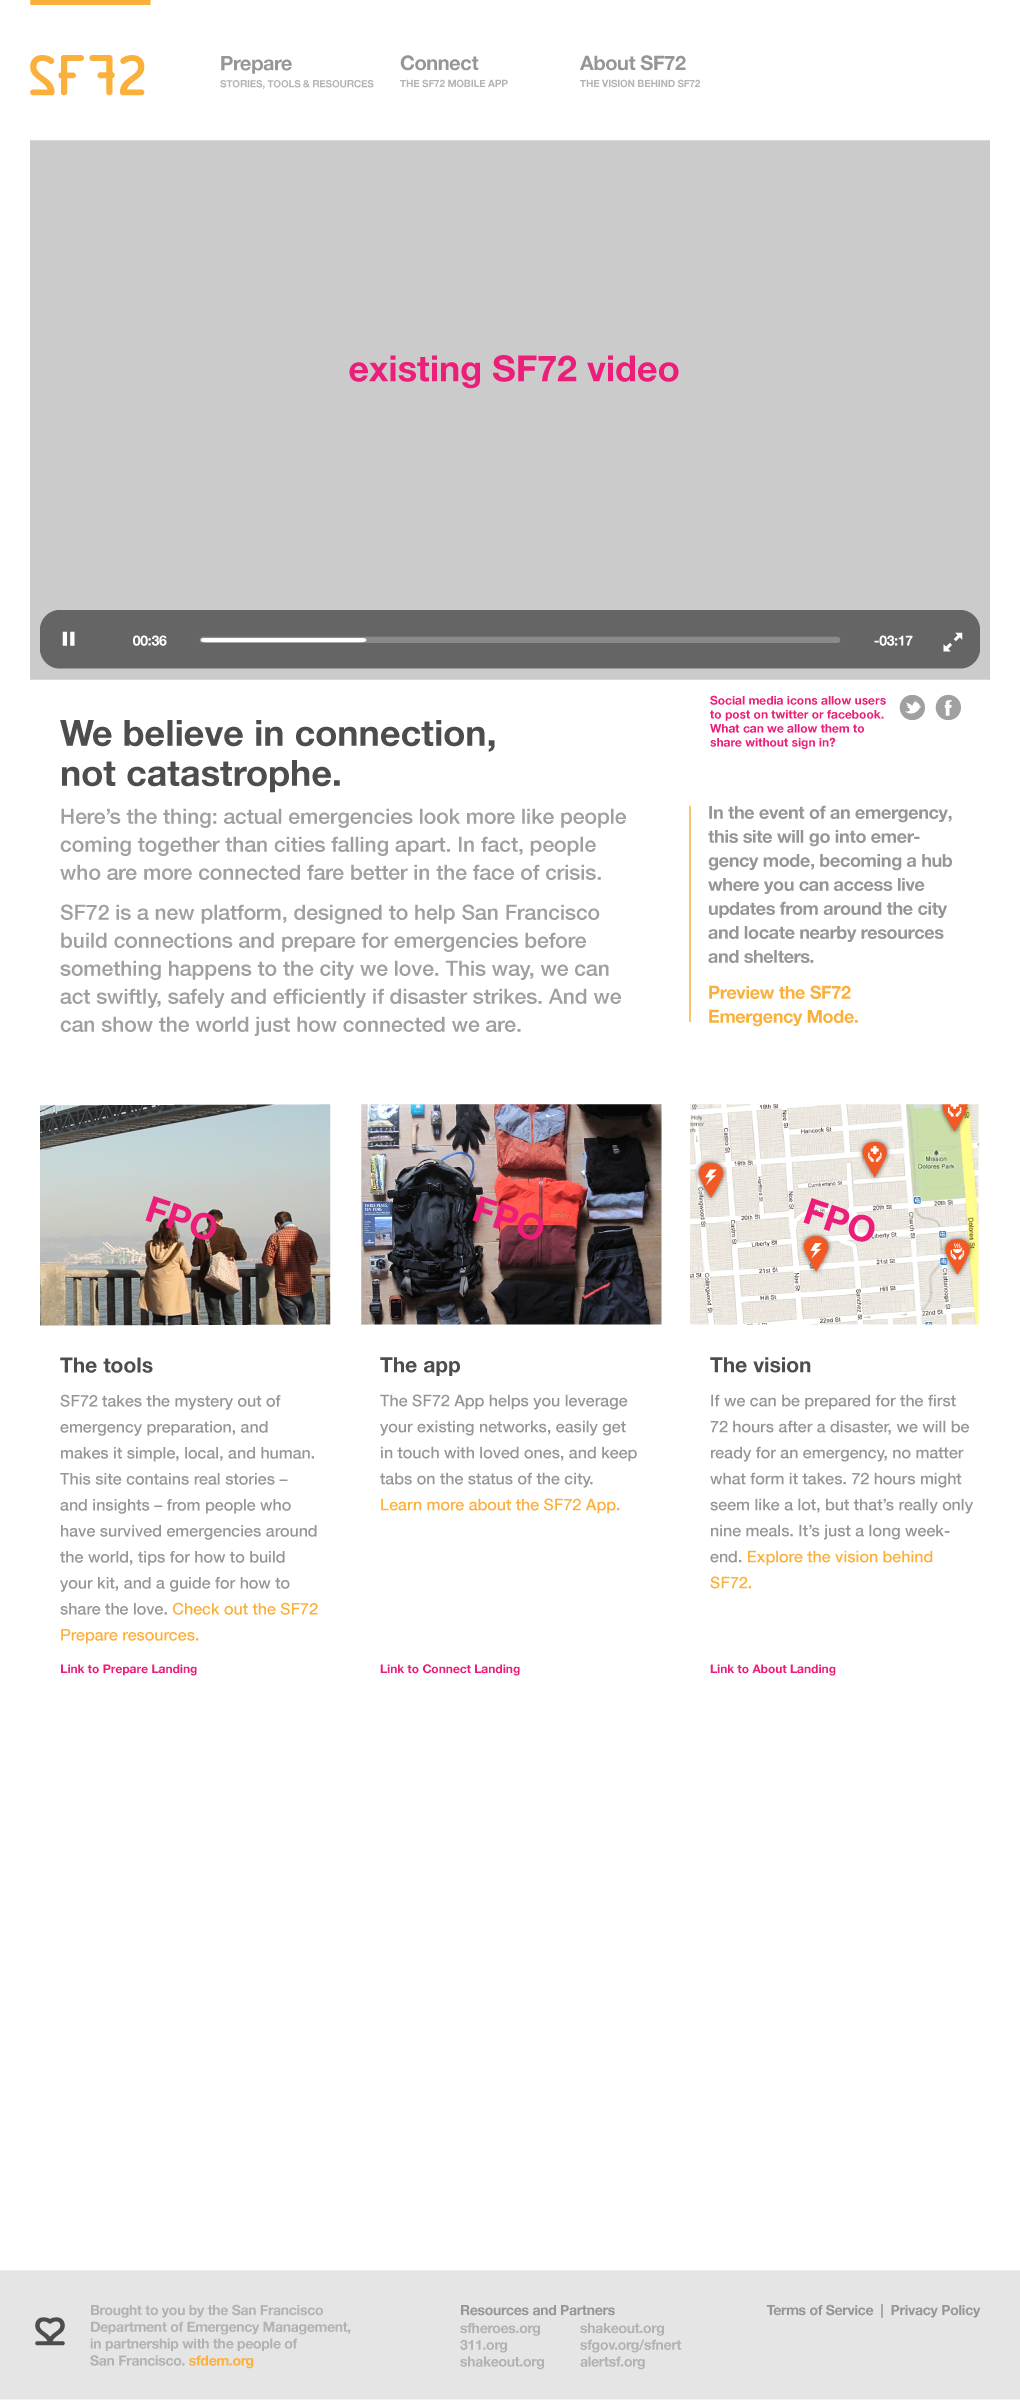
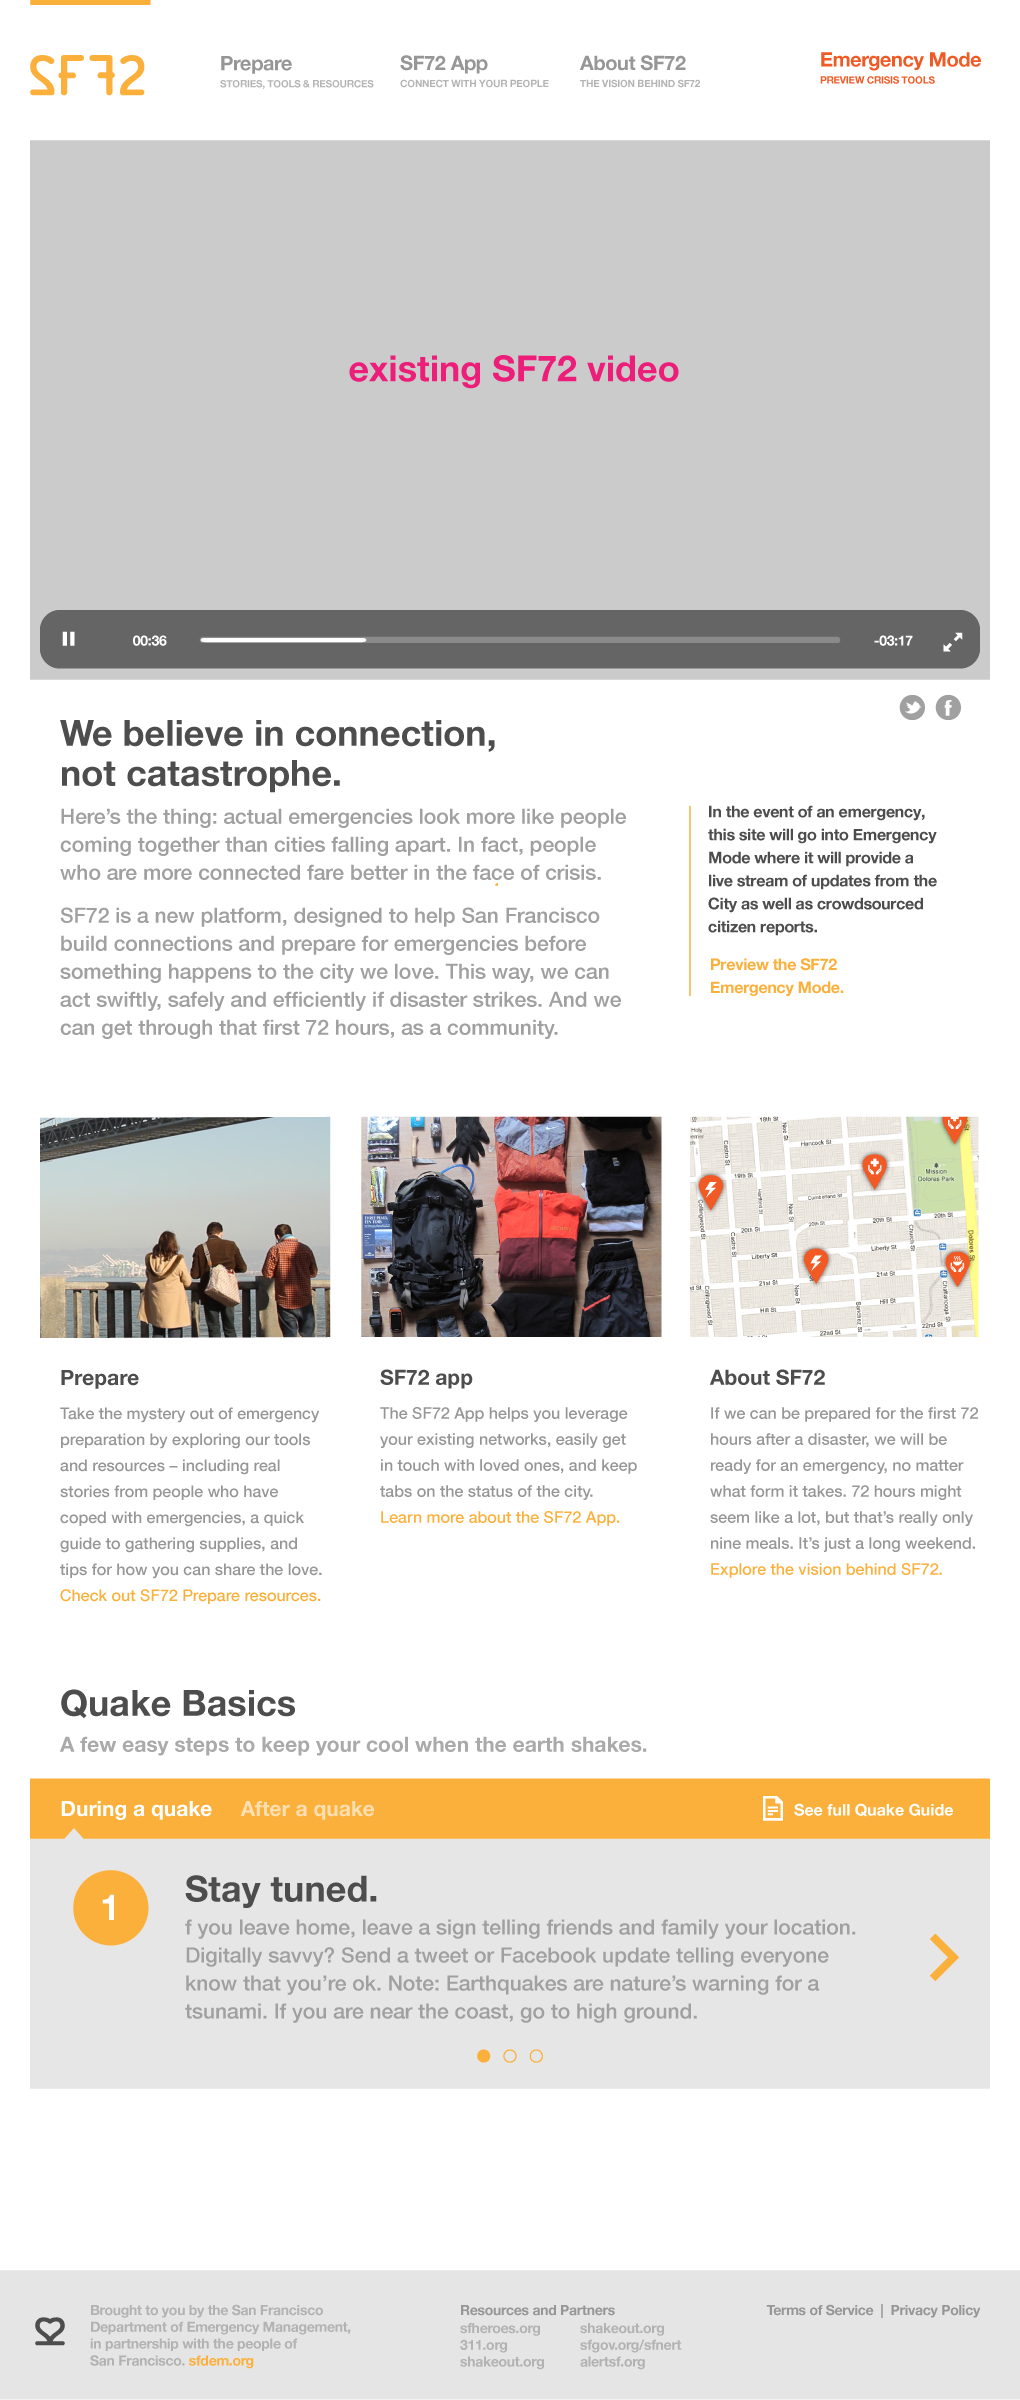
Details for home + Quick Guide page

diff --git a/app/assets/stylesheets/application.scss b/app/assets/stylesheets/application.scss
@@ -235,6 +235,7 @@ body {
 /* .story-detail { background: url(/assets/06-story-detail.png) -30px 0; } */
 /* .things { background: url(/assets/07-things.png) -30px 0; } */
 /* .about { background: url(/assets/08-about.png) -30px 0; } */
+/* .quick-guide-page { background: url(/assets/09-quick-guide-page.png) -30px 0; } */
 
 /* HOME */
 .video-opening {
@@ -465,9 +466,33 @@ body {
 
 	li {
 		float: left;
-		padding: 0.8rem 0.6rem 0.8rem 1.9rem;
-		color: #FFF;
-		font-size: 1.3rem;
+
+		a {
+			display: block;
+			padding: 0.8rem 0.6rem 0.8rem 1.9rem;
+			color: #FFF;
+			font-size: 1.3rem;
+			opacity: 0.6;
+			position: relative;
+		}
+	}
+
+	li.active {
+		a {
+			opacity: 1;
+		}
+
+		a:before {
+			content: '';
+			width: 0px;
+			height: 0px;
+			border-style: solid;
+			border-width: 0 11px 13px 11px;
+			border-color: transparent transparent $light-grey transparent;
+			position: absolute;
+			bottom: 0;
+			left: 2rem;
+		}
 	}
 }
 
@@ -475,6 +500,16 @@ body {
 	float: right;
 	color: #FFF;
 	padding: 1.1rem 2.6rem;
+	position: relative
+}
+
+.quick-list-trigger:before {
+	position: absolute;
+	top: 0.5rem;
+	left: 0.5rem;
+	font-family: 'sf72-icons';
+	content: 'q';
+	font-size: 1.5rem;
 }
 
 /* COMMON ELEMENTS */
@@ -1147,7 +1182,7 @@ a.checklist:before {
 
 .quick-guide-trigger:before {
 	font-family: "sf72-icons";
-	content: "a";
+	content: "1";
 	position: absolute;
 	top: 0;
 	font-size: 3.47rem;
@@ -1254,8 +1289,7 @@ a.checklist:before {
 	background: rgba(0,0,0,0.6);
 }
 
-.modal {
-
+/* .modal had this styles:
 	position: absolute;
 	max-width: 940px;
 	left: 50%;
@@ -1264,21 +1298,7 @@ a.checklist:before {
 	padding: 4.3rem 4.3% 0;
 	background-color: #FFF;
 	z-index: 2;
-
-	h4 {
-		margin: 4.3rem 0 0 7.9rem;
-		font-family: $font-medium;
-		font-size: 1em;
-		font-weight: normal;
-	}
-
-	.modal-title,
-	.event-after {
-		margin: 0.1rem 7.9rem 0;
-		font-size: 2.2rem;
-		color: $highlight-dark;
-	}
-}
+*/
 
 .quick-guide {
 	margin: 0;
@@ -1317,12 +1337,6 @@ a.checklist:before {
 	}
 }
 
-.quick-guide.full-page {
-	li {
-		margin-bottom: 4.5rem;
-	}
-}
-
 .slider.quick-guide {
 
 	li {
@@ -1348,16 +1362,87 @@ a.checklist:before {
 	display: none;
 }
 
-.modal .event-after { color: $highlight; }
+.quick-guide-page .quick-guide {
+	margin: 0 7rem 0 3.9rem;
+}
+
+.quick-guide-page .basics {
+
+	h4 {
+		margin: 4.3rem 0 0 7.9rem;
+		font-family: $font-medium;
+		font-size: 1em;
+		font-weight: normal;
+	}
+
+	> h2 {
+		margin: 0.1rem 11.8rem 0;
+		font-size: 2.2rem;
+		color: $highlight-dark;
+	}
+}
+
+.quick-guide-page .quick-guide {
+	li {
+		margin-bottom: 4.5rem;
+	}
+}
+
+.quick-guide-page .basics .event-after { color: $highlight; }
 .quick-guide.second li:before{ background-color: $highlight }
 
-.modal-share p {
-	padding: 0.2rem 0 0 7.9rem;
-	font-family: $font-medium;
-	font-size: 1.3rem;
-	line-height: 1.3;
-	color: $highlight;
+.quick-guide-share {
+	margin-bottom: 1.9rem;
+
+	.share-options {
+		float: right;
+		margin: -0.5rem 8.6rem 0 0;
+
+		li {
+			float: left;
+
+			a {
+				display: block;
+				text-indent: -9999px;
+				position: relative;
+				height: 32px;
+				width: 32px;
+				color: $body-light;
+				font-size: 1.6rem;
+				margin-left: 1rem;
+			}
+
+			a:before {
+				position: absolute;
+				top: 0;
+				left: 0;
+				text-indent: 0;
+				font-family: 'sf72-icons';
+				content: 'w';
+			}
+
+			a.facebook:before { content: 'v'; }
+			a.print:before { content: 'u'; }
+			a.email:before { content: 't'; }
+
+			a:hover {
+				color: $dark-grey;
+			}
+		}
+
+
+	}
+
+	p {
+		margin: 0.6rem 0;
+		padding-left: 11.9rem;
+		font-family: $font-bold;
+		font-size: 1rem;
+		line-height: 1.3;
+		color: $dark-grey;
+	}
 }
+
 
 /* STORIES */
 
